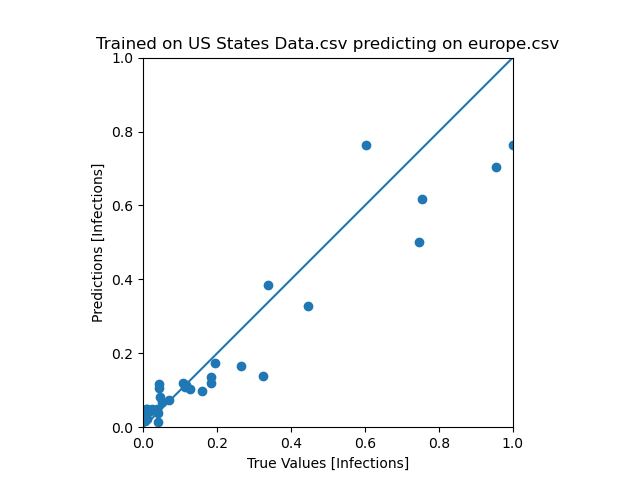
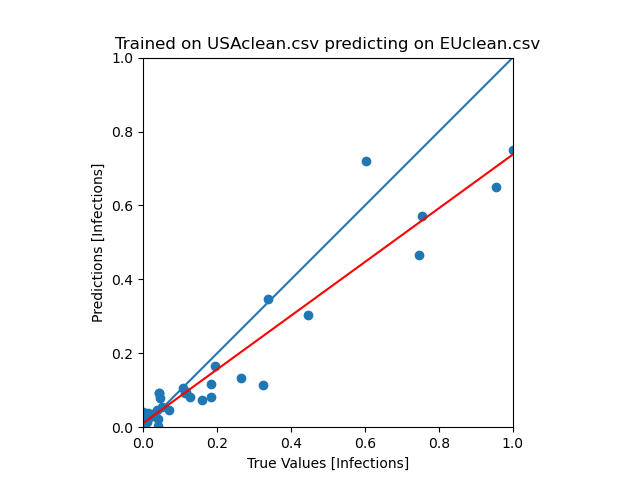
Switched to clean dataset, ran hypothetical case testing

diff --git a/Neural_Networks/dnn.py b/Neural_Networks/dnn.py
@@ -6,12 +6,13 @@ from sklearn.preprocessing import MinMaxScaler
 from tensorflow.keras import layers
 from tensorflow.keras import Sequential
 from tensorflow_addons.metrics import RSquare
+import numpy as np
 from tensorflow.keras.utils import plot_model
 from scipy import stats
 
 # Globals for data files
-US_DATA = r'US States Data.csv'
-EUROPE_DATA = r'europe.csv'
+US_DATA = r'USAclean.csv'
+EUROPE_DATA = r'EUclean.csv'
 
 
 def load_data(folder, filename):
@@ -134,6 +135,7 @@ def plot_predictions(predictions, test_labels, train, test):
     plt.ylim(lims)
     plt.title(f'Trained on {train} predicting on {test}')
     _ = plt.plot(lims, lims)
+    plt.plot(np.unique(test_labels), np.poly1d(np.polyfit(test_labels, predictions, 1))(np.unique(test_labels)), color='red')
     plt.show()
 
 
@@ -150,16 +152,39 @@ def predict_infections_rsquare(model, test_features, test_labels):
     # Return result
     return result.numpy()
 
-
-def usa_features():
+def usa_features() -> list:
+    """
+    Features to be used from USA data
+    :return: List of column titles of Pandas Dataframes
+    """
     return ['Population (discrete data)', 'Tests (discrete data)', 'Gini - gov 2019 (continuous data)',
             '% urban population (continuous data)', 'Actual cases (measured) (discrete data)']
 
+def europe_features() -> list:
+    """
+    Features to be used from EU data - This should be the same as the US data
+    :return: List of column titles of Pandas Dataframes
+    """
+    return ['population (discrete data)', 'tests (discrete data)', 'Gini (discrete data)',
+            '%urban pop. (continuous data)', 'Actual cases']
 
-def europe_features():
-    return ['population (discrete data)', 'tests     (discrete data)', 'Gini      (discrete data)',
-            '%urban pop.  (continuous data)', 'Actual cases']
 
+def hypothetical1_features() -> list:
+    """
+    Hypothetical Case 1 - tests is equal to population
+    :return: List of column titles of Pandas Dataframes
+    """
+    return ['population (discrete data)', 'population (discrete data)', 'Gini (discrete data)',
+            '%urban pop. (continuous data)', 'Actual cases']
+
+
+def testcountry_features() -> list:
+    """
+    Features to be used from EU data - This should be the same as the US data
+    :return: List of column titles of Pandas Dataframes
+    """
+    return ['Population', 'Gini Index',
+            'Urban Population (%)', 'Measured number of infections']
 
 def train_x_test_y(train=r'US States Data.csv', test=r'europe.csv'):
     """

diff --git a/Multilinear Regression/feature_plotter.py b/Multilinear Regression/feature_plotter.py
@@ -1,0 +1,37 @@
+import pandas as pd
+import matplotlib.pyplot as plt
+
+
+def feature_plotter(data):
+    features = pd.read_csv(data)
+
+    dependent = features.pop(features.columns[-1])
+
+    fontsize = 12
+
+    fig, ((ax1, ax2), (ax3, ax4)) = plt.subplots(nrows=2, ncols=2)
+
+    ax1.scatter(features['Population (discrete data)'], dependent)
+    ax1.set_xlabel('Population', fontsize=fontsize)
+    ax1.set_ylabel('Cases', fontsize=fontsize)
+    ax1.set_title('A', fontsize=fontsize)
+
+    ax2.scatter(features['Tests (discrete data)'], dependent)
+    ax2.set_xlabel('Tests', fontsize=fontsize)
+    ax2.set_ylabel('Cases', fontsize=fontsize)
+    ax2.set_title('B', fontsize=fontsize)
+
+    ax3.scatter(features['Gini - gov 2019 (continuous data)'], dependent)
+    ax3.set_xlabel('Gini', fontsize=fontsize)
+    ax3.set_ylabel('Cases', fontsize=fontsize)
+    ax3.set_title('C', fontsize=fontsize)
+
+    ax4.scatter(features['% urban population (continuous data)'], dependent)
+    ax4.set_xlabel('% urban population', fontsize=fontsize)
+    ax4.set_ylabel('Cases', fontsize=fontsize)
+    ax4.set_title('D', fontsize=fontsize)
+    plt.tight_layout()
+    plt.show()
+
+if __name__ == "__main__":
+    feature_plotter('USAtrain.csv')

diff --git a/Multilinear Regression/multi_linear_reg.py b/Multilinear Regression/multi_linear_reg.py
@@ -15,8 +15,8 @@ from sklearn import linear_model
 import statsmodels.api as sm
 import seaborn as sns
 
-US_DATA = r'US States Data.csv'
-EUROPE_DATA = r'europe.csv'
+US_DATA = r'USAclean.csv'
+EUROPE_DATA = r'EUclean.csv'
 TEST_COUNTRIES = r'Test Data.csv'
 
 
@@ -80,6 +80,8 @@ def snsregressionplot(x, y, title, xlabel, ylabel):
     """
     fig = plt.figure()
     ax = sns.regplot(x=x, y=y.astype(float), ci=None, color="b")
+    plt.plot(np.unique(x), np.poly1d(np.polyfit(x, y, 1))(np.unique(x)),
+             color='red')
     ax.title.set_text(title)
     ax.set_xlabel(xlabel)
     ax.set_ylabel(ylabel)
